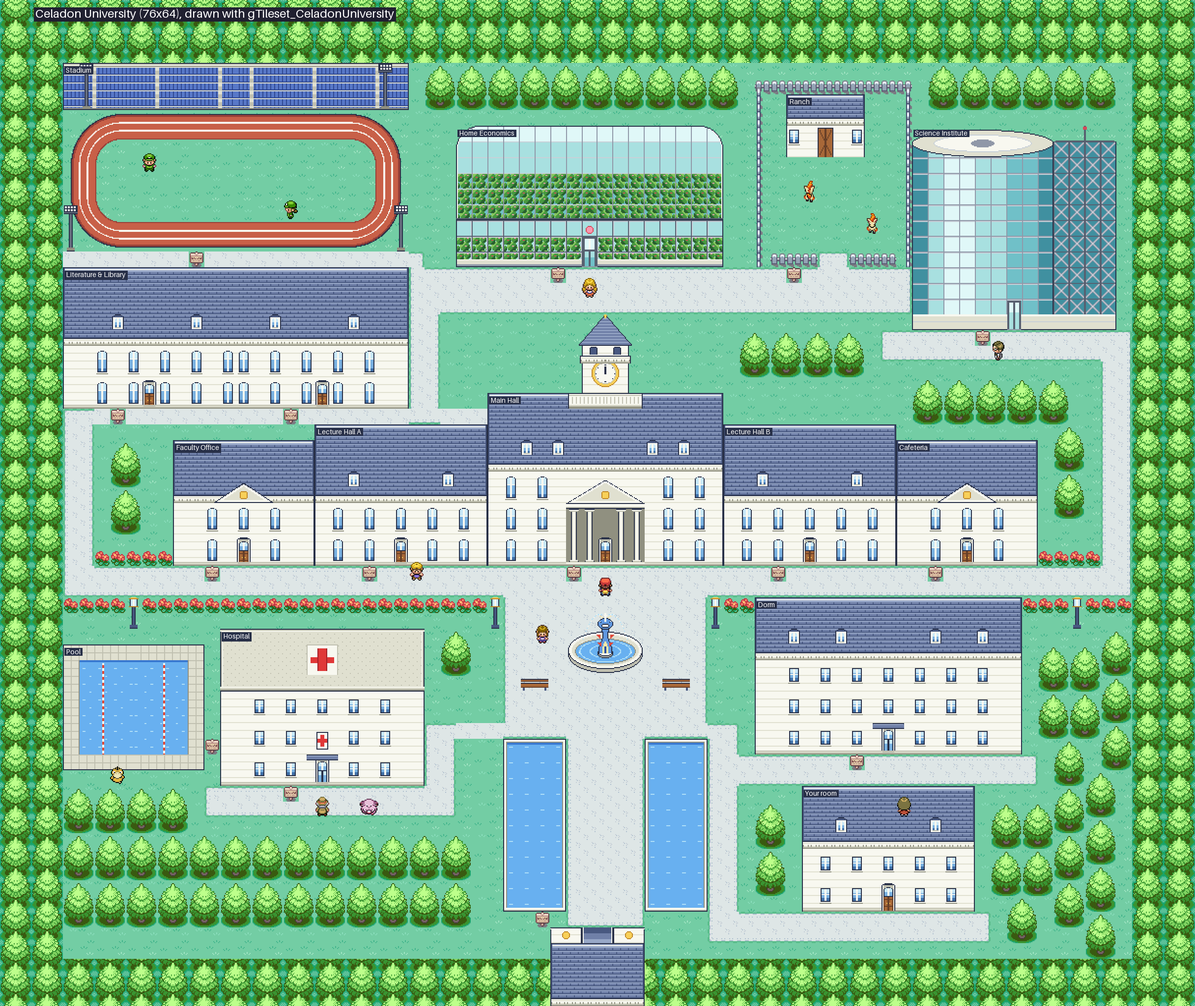
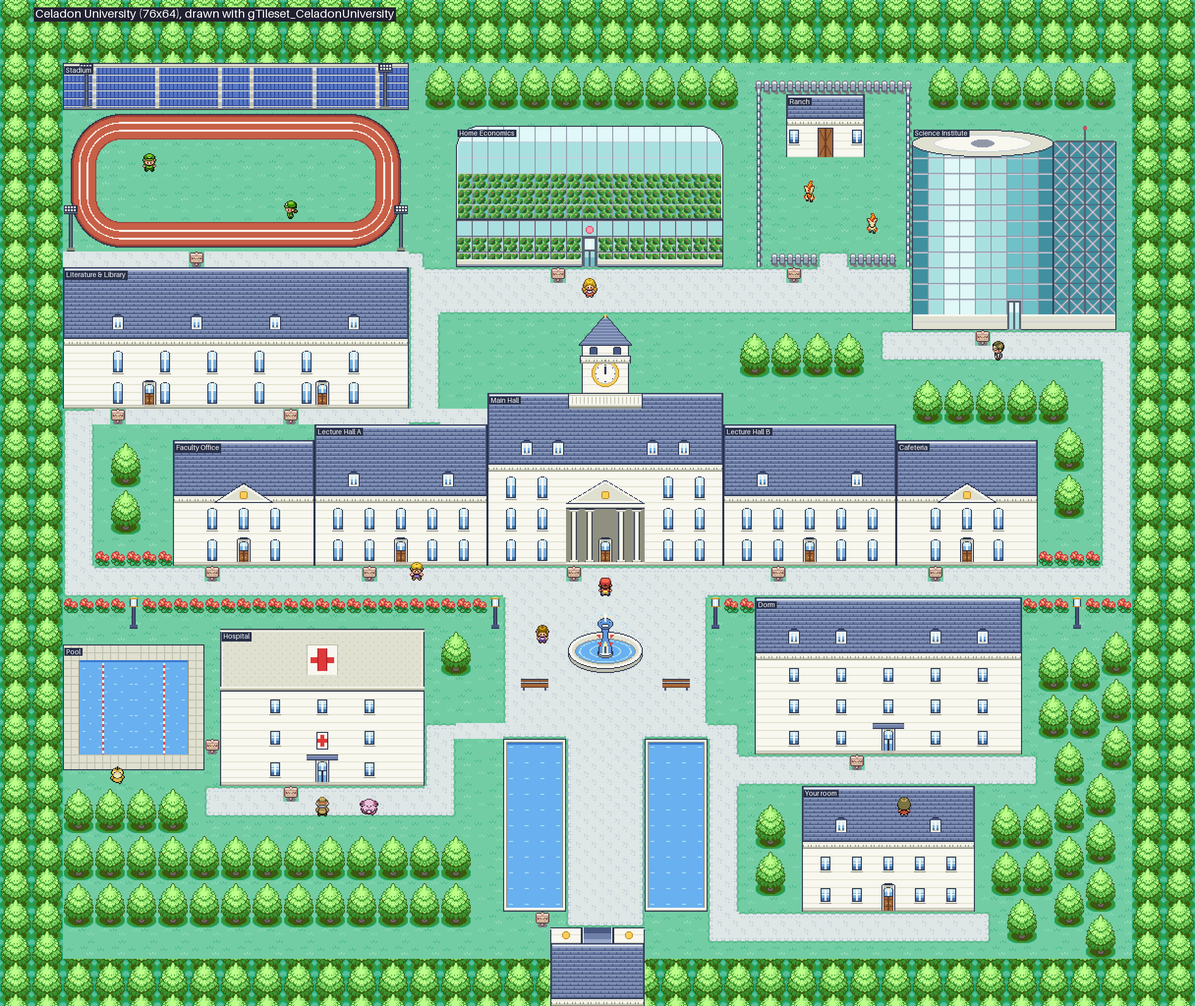
University: windows every third column on the dorm, hospital and Literature & Library

diff --git a/tools/hack/draw_university_tiles.py b/tools/hack/draw_university_tiles.py
@@ -307,26 +307,37 @@ def pediment(P, c, base_y, half, height, emblem=True):
         P.ellipse(c, cy, 4.5, 4.5, AU, AU2)
 
 
-def facade(P, x0, y0, w_tiles, storeys, kind='arch', skip=()):
-    """Storeys of windows (2 rows each) in every other column, centered (so a mirrored building stays symmetric),
-    within columns 1..w-2, except (col, storey) in skip (storey 0 = the top one)."""
+def has_window(c, w_tiles, spacing):
+    """Windows every `spacing` columns, centered so a mirrored building stays symmetric (on an even width with
+    spacing 2, the middle pair are both windows)."""
+    d2 = abs(2 * c - (w_tiles - 1))  # Twice the distance from the middle
+    if spacing == 2:
+        return d2 % 4 in (0, 1)
+    if w_tiles % 2:
+        return (d2 // 2) % spacing == 0
+    return d2 % (2 * spacing) == spacing
+
+
+def facade(P, x0, y0, w_tiles, storeys, kind='arch', skip=(), spacing=2):
+    """Storeys of windows (2 rows each) every `spacing` columns within columns 1..w-2, except (col, storey) in skip
+    (storey 0 = the top one)."""
     for s in range(storeys):
         for c in range(1, w_tiles - 1):
-            if abs(2 * c - (w_tiles - 1)) % 4 not in (0, 1):  # Every other column from the middle
+            if not has_window(c, w_tiles, spacing):
                 continue
             if (c, s) in skip or c in skip:
                 continue
             (window if kind == 'arch' else sqwindow)(P, x0 + c * T, y0 + s * 2 * T)
 
 
-def academic(w, roof_rows, storeys, doors, dormers=(), kind='arch', pediment_over=None, skip=()):
+def academic(w, roof_rows, storeys, doors, dormers=(), kind='arch', pediment_over=None, skip=(), spacing=2):
     """The academic building: mansard roof, storeys of windows, doors (columns) on the ground storey, plinth.
     Symmetric when the doors and dormers are."""
     h = roof_rows + storeys * 2
     P = Pic(w * T, h * T)
     roof(P, 0, 0, P.w, roof_rows * T, dormers, roof_rows - 2)
     wall(P, 0, roof_rows * T, P.w, storeys * 2 * T)
-    facade(P, 0, roof_rows * T, w, storeys, kind, skip=[(d, storeys - 1) for d in doors] + list(skip))
+    facade(P, 0, roof_rows * T, w, storeys, kind, skip=[(d, storeys - 1) for d in doors] + list(skip), spacing=spacing)
     for d in doors:
         door(P, d * T, (h - 2) * T, glass=kind != 'arch')
     plinth(P, 0, h * T - 4, P.w)
@@ -427,14 +438,14 @@ def pavilion():
 
 def humanities():
     """Literature & Library, 22x9: one building, two doors (columns 5 and 16)."""
-    P = academic(22, 5, 2, doors=(5, 16), dormers=(3, 8, 13, 18))
+    P = academic(22, 5, 2, doors=(5, 16), dormers=(3, 8, 13, 18), spacing=3)
     P.mirror()
     return P
 
 
 def dorm():
     """The dorm, 17x10: the same stone and slate, square windows, a glass door under a slate canopy (column 8)."""
-    P = academic(17, 4, 3, doors=(8,), dormers=(2, 5, 11, 14), kind='square')
+    P = academic(17, 4, 3, doors=(8,), dormers=(2, 5, 11, 14), kind='square', spacing=3)
     canopy(P, 8, 8)
     P.mirror()
     return P
@@ -485,7 +496,7 @@ def hospital():
     P.vl(cx - 5, cy - 12, cy + 10, AC['rd2'])
     # Facade
     wall(P, 0, 4 * T, P.w, 6 * T)
-    facade(P, 0, 4 * T, w, 3, 'square', skip=[(6, 2), (6, 1)])
+    facade(P, 0, 4 * T, w, 3, 'square', skip=[(6, 2), (6, 1)], spacing=3)
     door(P, 6 * T, 8 * T, glass=True)
     canopy(P, 6, 8)
     # The cross sign over the door
